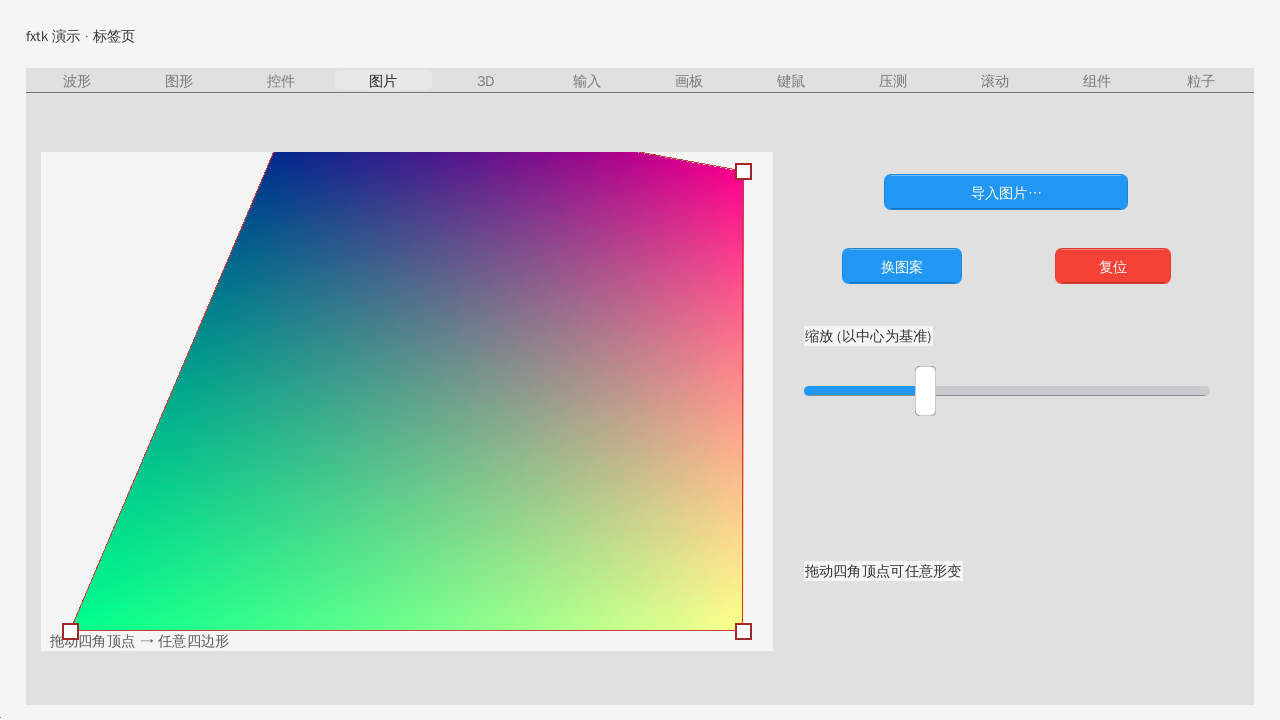
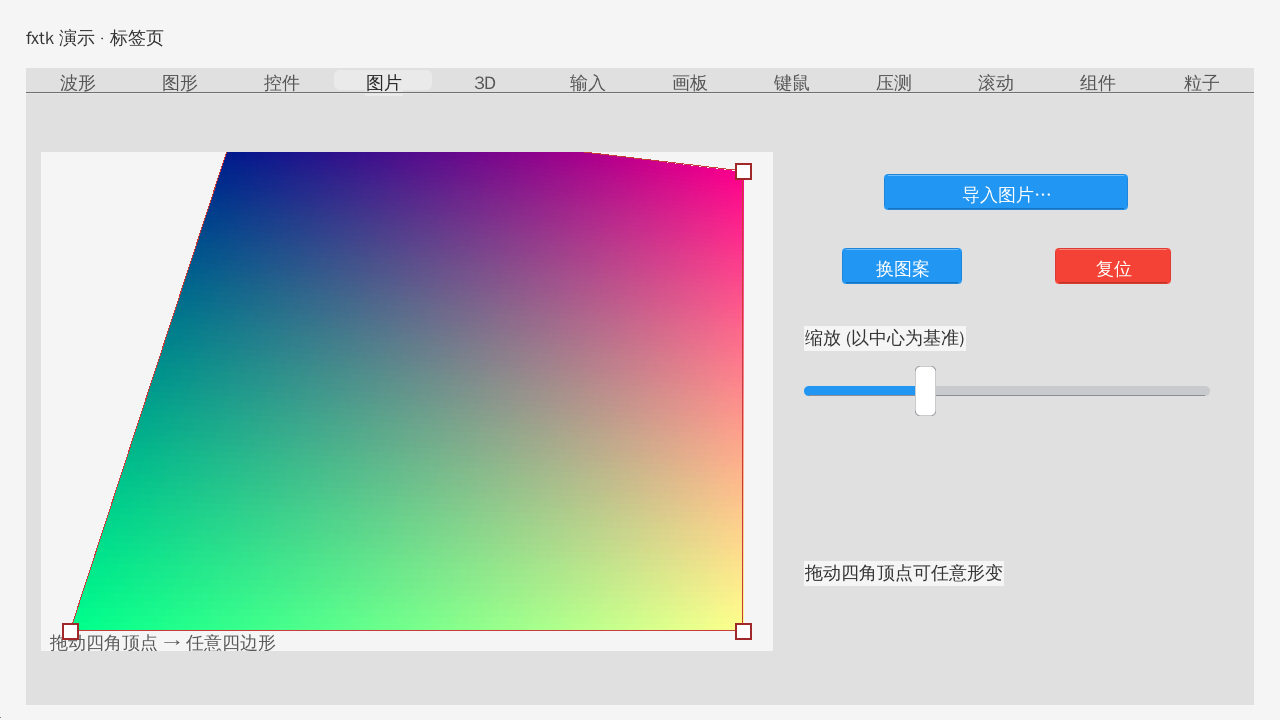
fix+docs: 修 aa_circle 行扫导致的圆断裂; README 四张演示图重截 + 四张画布截图更新为当前渲染

diff --git a/components/fxtk/fxtk_draw.c b/components/fxtk/fxtk_draw.c
@@ -117,8 +117,14 @@ static void aa_circle(int cx, int cy, int r, uint32_t c)
         int y = cy + dy;
         float rad = (float)(r * r - dy * dy);
         if (rad < 0) continue;
-        int gx = (int)sqrtf(rad);
-        for (int dd = gx - 1; dd <= gx + 1; dd++) {
+        /* v2.4.3 修复: 原来只在"该行圆环水平极值 ±1"处上色 —— 圆的顶部/底部曲线接近水平,
+         * 相邻多行会落到同一个 x, 于是呈现为断线/虚线(用户看图时发现圆"缺了一段")。
+         * 改为覆盖该行与"圆环带宽 |d-r|<1"相交的完整区间。 */
+        float lo2 = (float)((r - 1) * (r - 1) - dy * dy); if (lo2 < 0) lo2 = 0;
+        float hi2 = (float)((r + 1) * (r + 1) - dy * dy); if (hi2 < 0) continue;
+        int dlo = (int)sqrtf(lo2), dhi = (int)sqrtf(hi2);
+        if (dlo < 0) dlo = 0;
+        for (int dd = dlo; dd <= dhi; dd++) {
             float d = sqrtf((float)(dd * dd + dy * dy));
             float cov = 1.0f - (float)fabs(d - (float)r);
             if (cov <= 0) continue;

diff --git a/CHANGELOG.md b/CHANGELOG.md
@@ -5,6 +5,13 @@
 > 路线图见 `docs/ROADMAP_v2.4.md`。目标：sokol 自裁剪后端（替代实验性 SDL2）+ GPU 全局抗锯齿
 > + 通用跨平台服务层 + 纹理四边形形变（真透视）+ 控件逐个审美打磨。
 
+### 修复（画布抗锯齿圆断裂 + README 截图更新）
+- **缺陷**: `aa_circle` 按"行扫"实现, 只在各行圆环水平极值 ±1 处上色 —— 圆的顶部/底部曲线接近水平,
+  相邻多行落到同一个 x, 于是圆呈现为**断线/虚线**(看图时发现"圆缺了一段")。
+  改为覆盖该行与圆环带宽 `|d-r|<1` 相交的完整区间; 实测圆环区墨迹 441 → 463(补上断口), 目视连续 ✓
+- **README 截图**: 四张演示图按当前代码重截(伪3D/形变/GPU光追/输入页);
+  四张画布截图(aa/gradient/gauge/checker)原先还是 **2026-09-06** 的 v2.3 时代产物, 已换成当前渲染。
+
 ### 变更（v2.4.3：切断平台日志依赖 + 并发槽位可配置）
 - **核心不再依赖平台日志头**：`fxtk.c` 原先无条件 `#include "esp_log.h"`，靠 demo 提供的**假头**才编得过
   （PC 端的 `demo-main/esp_log.h` 垫片）—— 现已改用框架自带的 `fx_log()`（ESP32 侧自动转发 `esp_log_write`），
